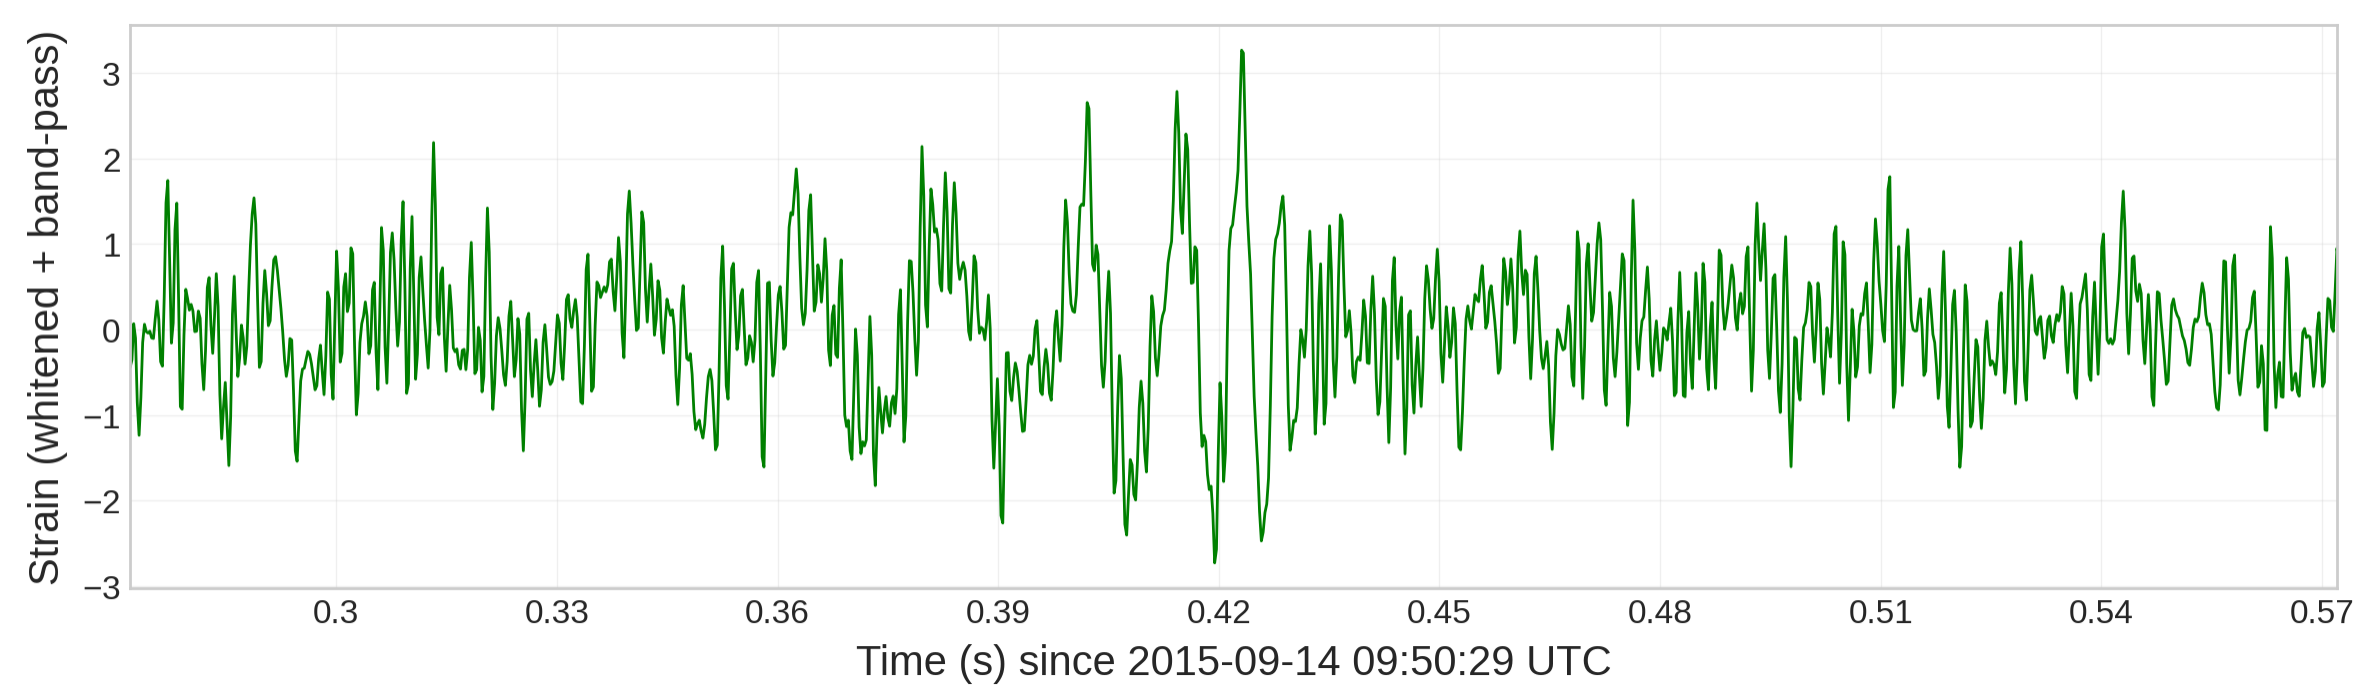
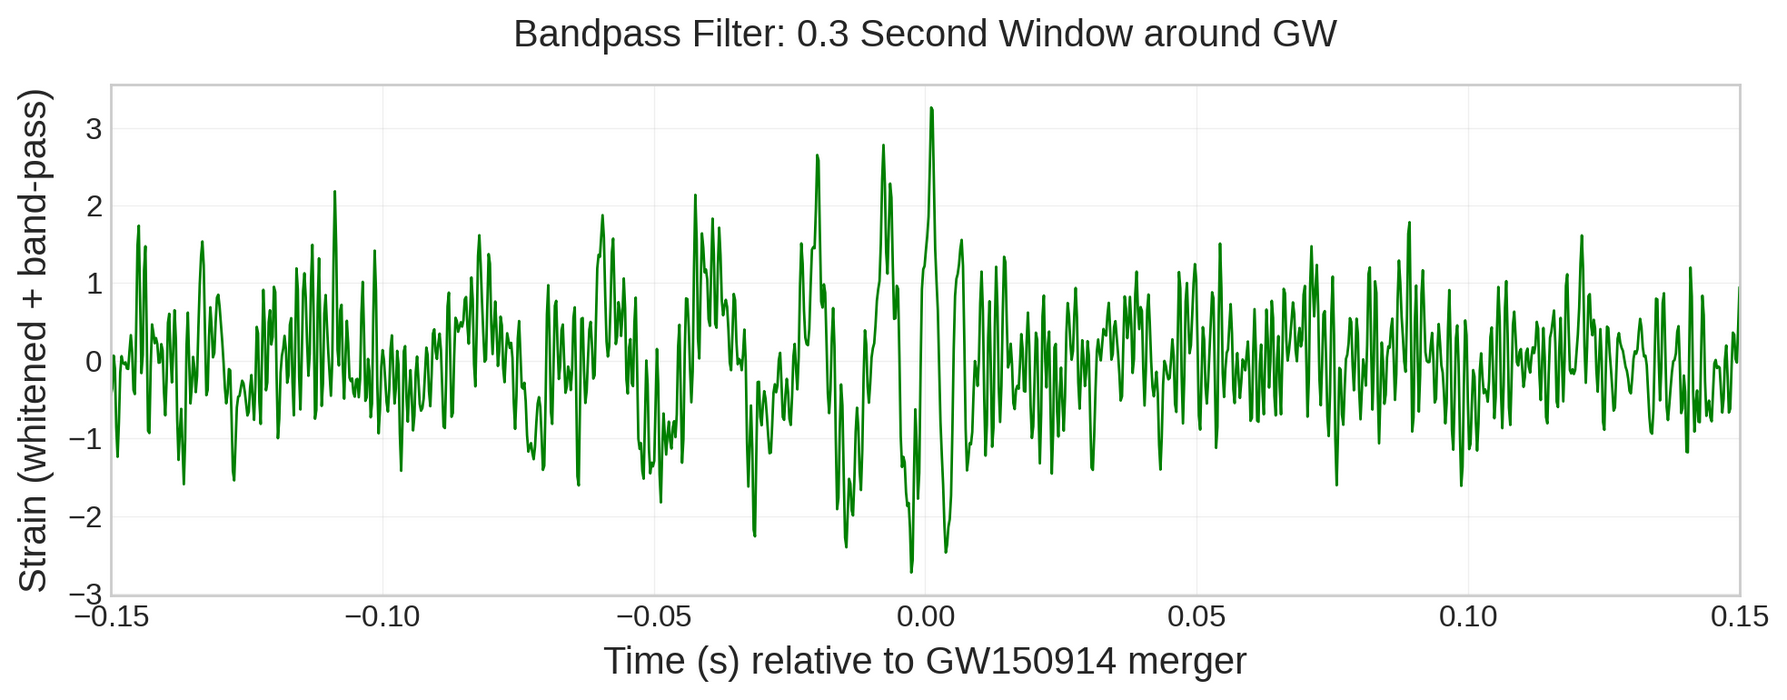
final edits

diff --git a/gravitational-waves-project/index.md b/gravitational-waves-project/index.md
@@ -59,9 +59,9 @@ This plot shows the LIGO strain h(t) over time in a 32-second window centered on
 
 ![Raw Strain](assets/plots/strain_time.png)  <!-- your saved figure -->
 
-**How I made the plot was made:**  
+**How I made the plot:**  
 - Data consist of time-stamped measurements of the relative length changes in LIGO’s two perpendicular arms.
-- Using Python (NumPy and Matplotlib), I loaded the data were, extracted a 32-second window around the merger, and plotted the strain values versus time.
+- Using Python (NumPy and Matplotlib), I loaded the data, extracted a 32-second window around the merger, and plotted the strain values versus time.
 
 **What the plot shows:**
 - x-axis: time (s) around the merger  
@@ -78,6 +78,9 @@ This plot shows the LIGO strain h(t) over time in a 32-second window centered on
 The amplitude spectral density shows how much noise the detector has at each frequency.
 
 ![ASD Full Range](assets/plots/asd_full.png)  
+
+Here is a zoomed-in plot around 1000Hz.
+
 ![ASD Zoomed](assets/plots/asd_zoom.png)
 
 **How I made the plot:**  
@@ -129,6 +132,9 @@ Whitening adjusts the data so that noise has roughly the same strength across al
 A bandpass filter allows only a specific range of frequencies to pass through while removing frequencies outside that range. This helps isolate the gravitational-wave signal from the detector noise.
 
 ![Bandpass 32s Window](assets/plots/bandpass_32s.png)  
+
+Here is a zoomed-in plot of 0.3s around the gravitational wave. 
+
 ![Bandpass Zoom 0.3s](assets/plots/bandpass_zoom.png)
 
 **How I made the plot:**
